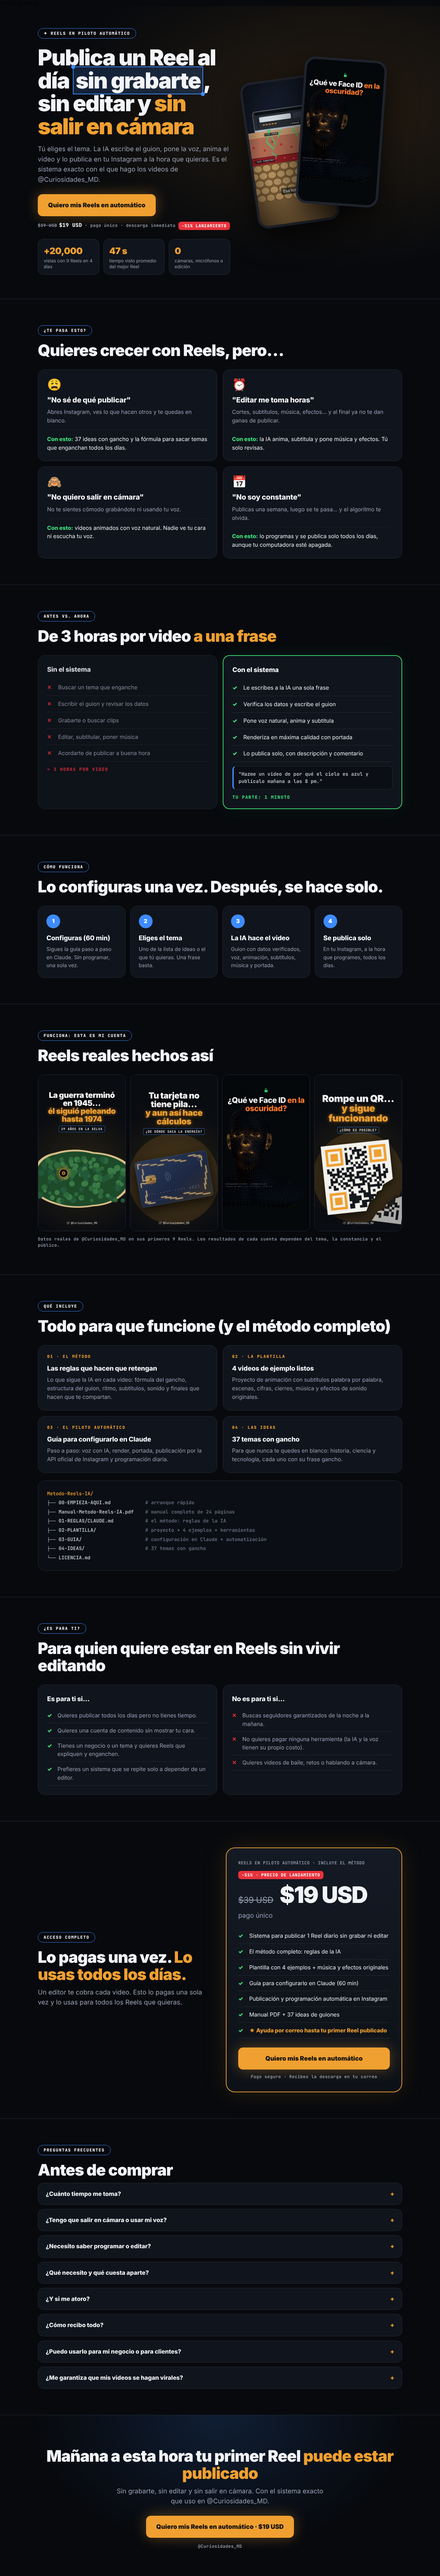
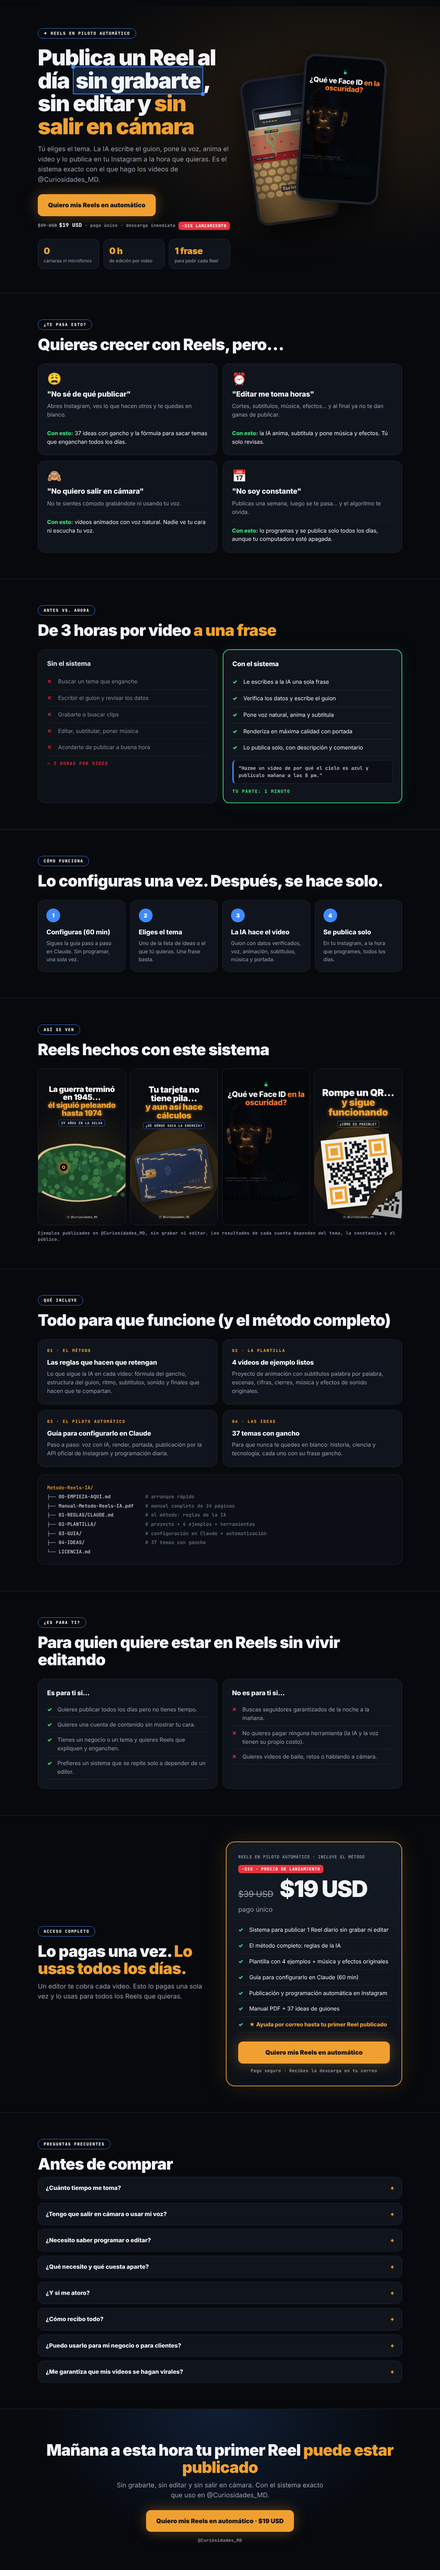
Tienda: sin datos de vistas, solo la necesidad
Claude-Session: https://claude.ai/code/session_01JLuTZK1TLcbdZyXvLiz7KR

diff --git a/tienda/textos-shopify.md b/tienda/textos-shopify.md
@@ -11,7 +11,7 @@
 ### Descripción
 Publica un Reel al día sin grabarte, sin editar y sin salir en cámara.
 
-Tú eliges el tema. La IA escribe el guion con datos verificados, pone una voz natural, anima el video y lo publica en tu Instagram a la hora que quieras. Es el sistema exacto con el que hago los videos de @Curiosidades_MD (+20,000 vistas con sus primeros 9 Reels).
+Tú eliges el tema. La IA escribe el guion con datos verificados, pone una voz natural, anima el video y lo publica en tu Instagram a la hora que quieras. Es el sistema exacto con el que hago los videos de @Curiosidades_MD.
 
 **Resuelve:**
 - "No sé de qué publicar" → 37 ideas con gancho y la fórmula para sacar más.
